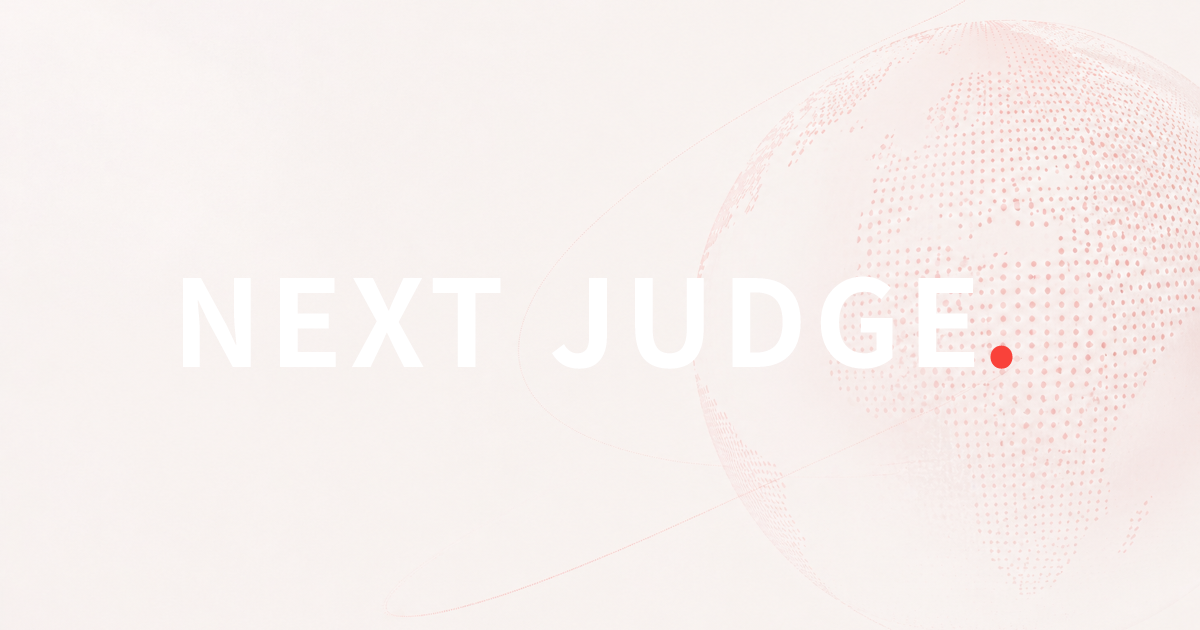
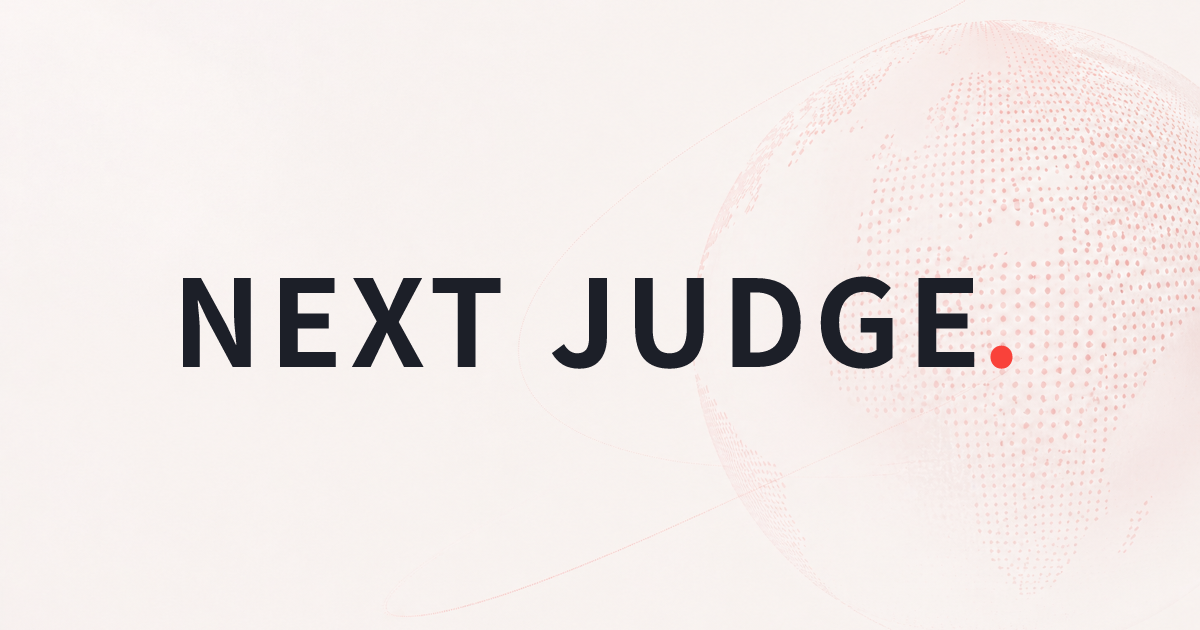
fix: OG 이미지 텍스트 색상 다크로 변경 (가독성)

Changed region(s): [[0.4625, 0.4222, 0.8325, 0.6032], [0.1542, 0.4222, 0.4317, 0.6032]]

diff --git a/app/opengraph-image.tsx b/app/opengraph-image.tsx
@@ -55,15 +55,6 @@ export default async function OgImage() {
           }}
         />
 
-        {/* 가독성을 위한 어두운 오버레이 */}
-        <div
-          style={{
-            position: 'absolute',
-            inset: 0,
-            backgroundColor: 'rgba(28, 31, 40, 0.55)',
-          }}
-        />
-
         {/* 워드마크 */}
         <div
           style={{
@@ -73,7 +64,7 @@ export default async function OgImage() {
             fontSize: '120px',
             fontWeight: 700,
             letterSpacing: '0.06em',
-            color: '#FFFFFF',
+            color: '#1C1F28',
           }}
         >
           <span>NEXT JUDGE</span>
